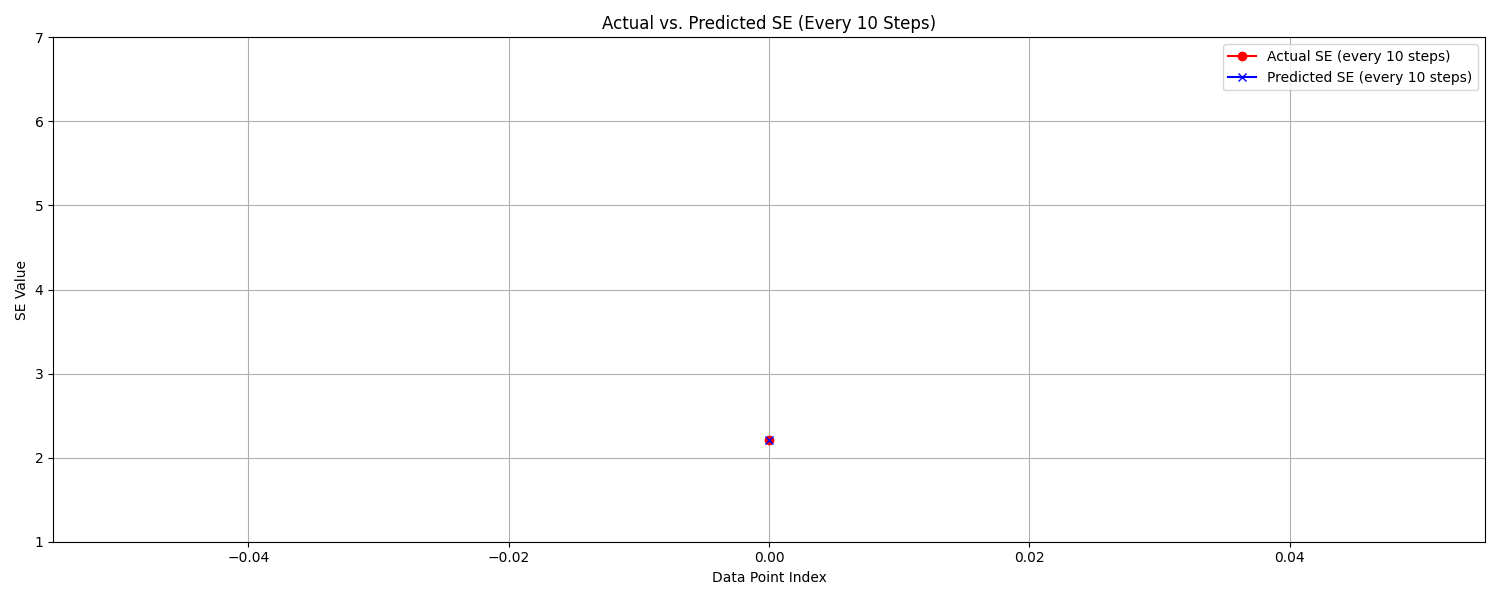
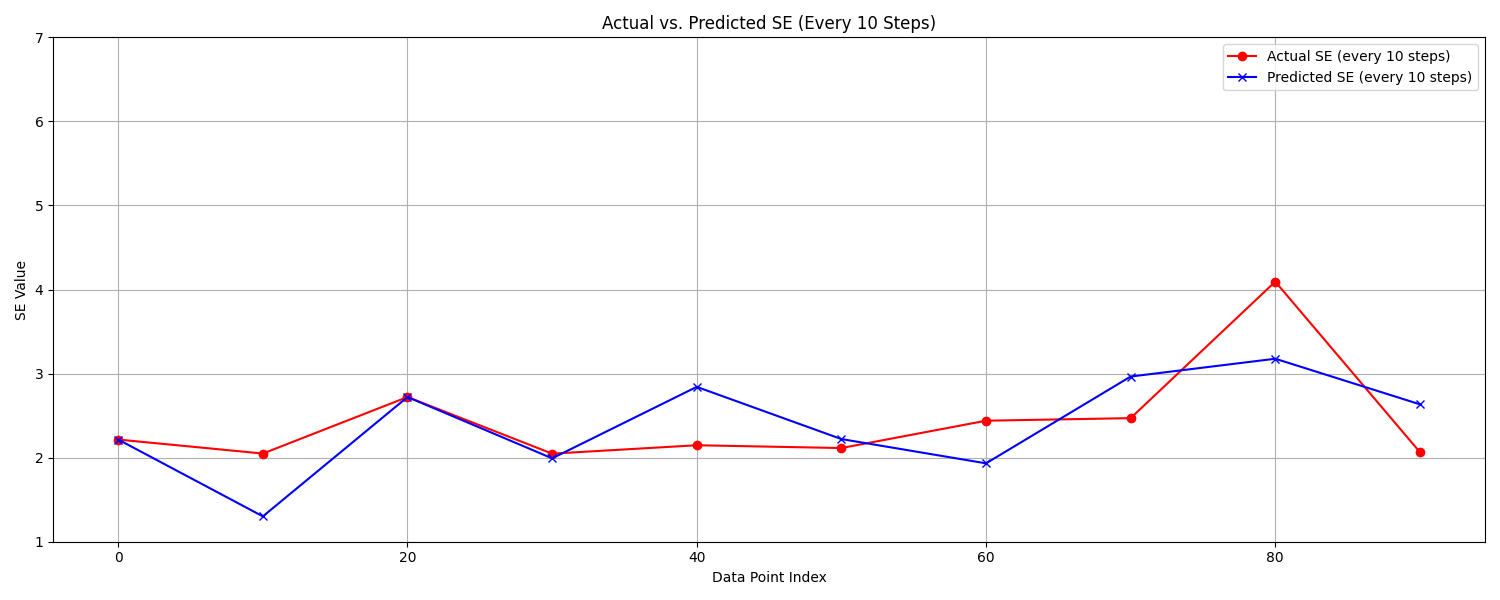
100sample

diff --git a/paper_test_and_warmup/primary_secondary_free_mind_UPDATED_RULES.py b/paper_test_and_warmup/primary_secondary_free_mind_UPDATED_RULES.py
@@ -271,7 +271,7 @@ data.clear()
 repeated.clear()
 ch = gen_channels(1000)
 print(ch)
-ch = ch[200:201]
+ch = ch[200:300]
 
 print("\n--- Starting LLM Negotiation ---")
 
